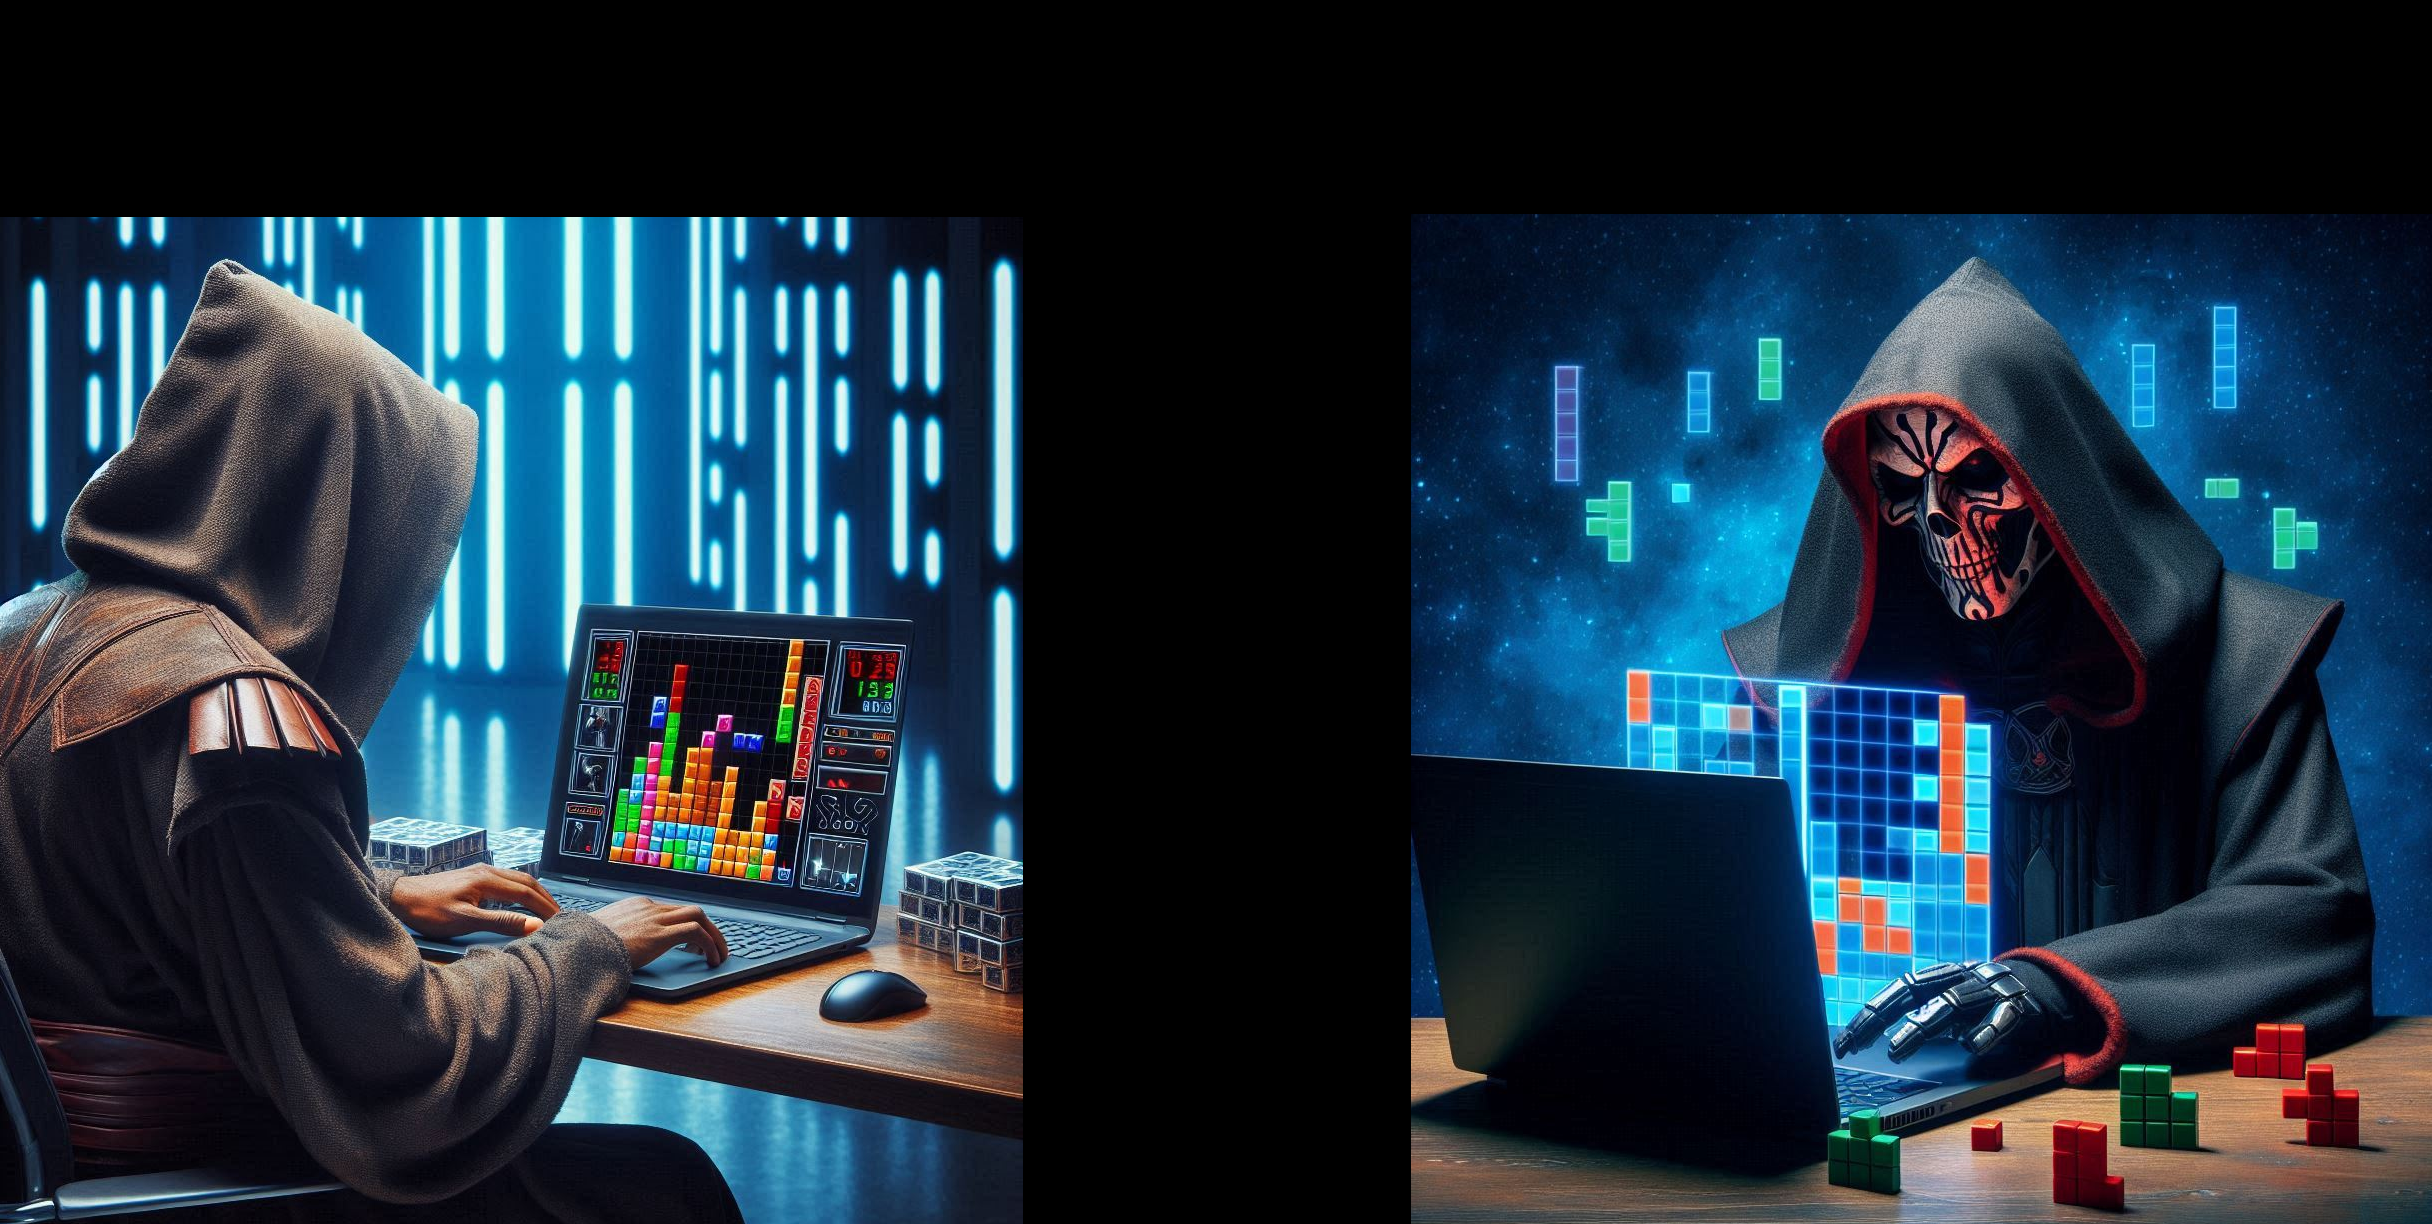
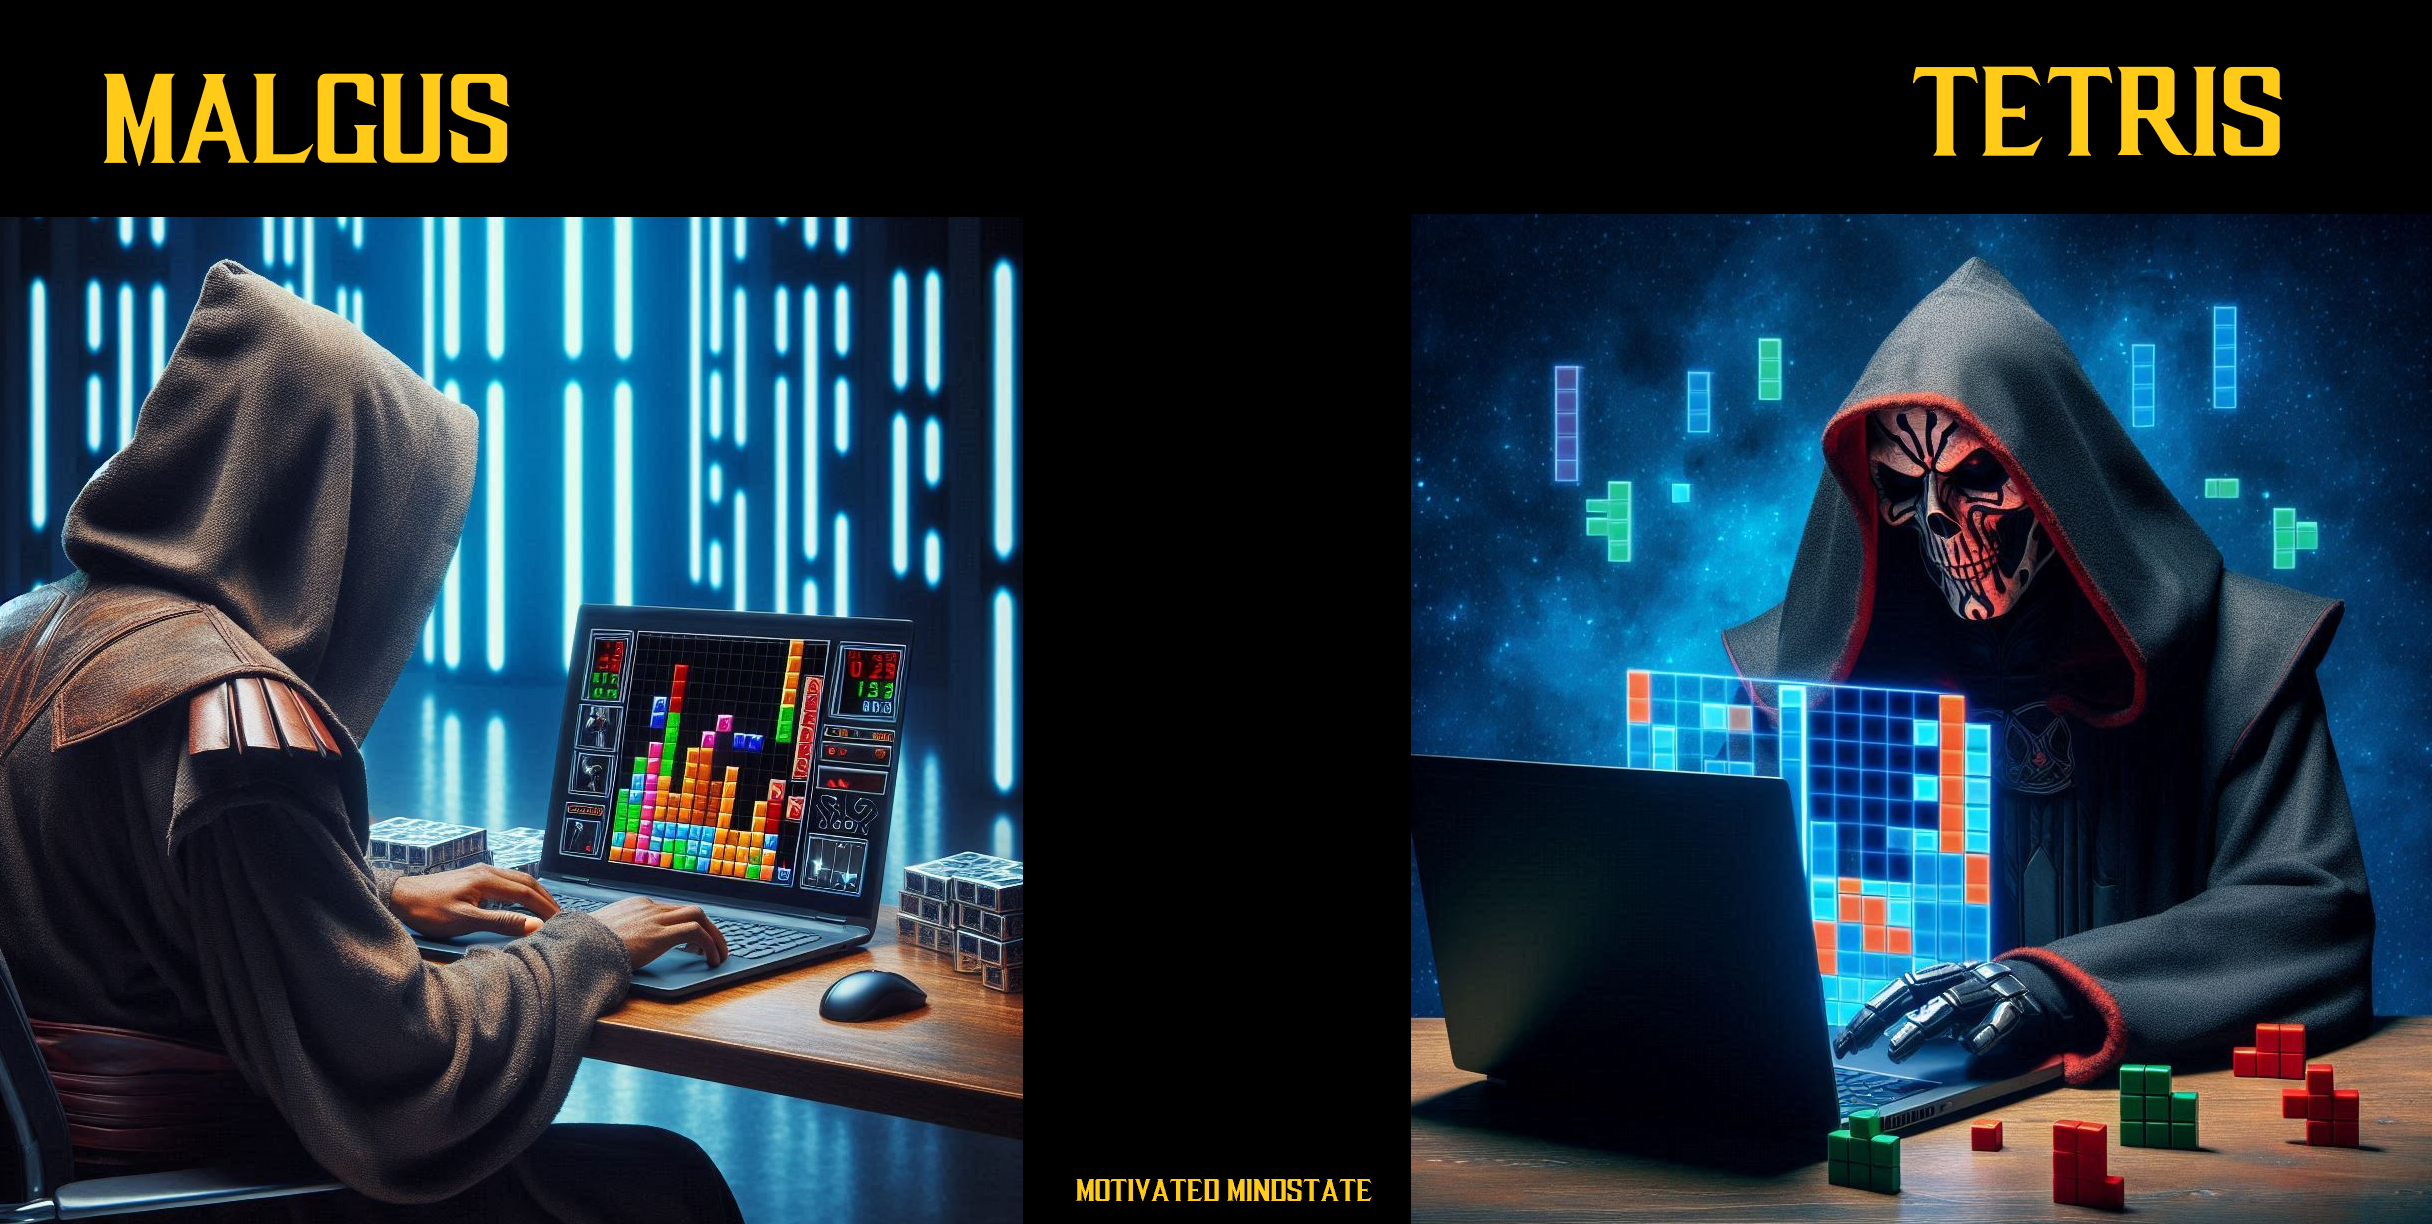
eigth commit

Changed region(s): [[0.0312, 0.0621, 0.2188, 0.1552], [0.7812, 0.031, 0.9375, 0.1242], [0.4375, 0.9624, 0.5625, 0.9935]]

diff --git a/readme.md b/readme.md
@@ -1,0 +1,15 @@
+# Malgus Tetris
+
+**Malgus Tetris** is a React-based Tetris game project. This repository contains two main components:
+
+## 1. Dockerized Application
+
+**Standalone Docker Container**: This component allows you to run the game as a self-contained Docker container. The Docker setup ensures that the game can be easily deployed and tested in any environment.
+
+## 2. Public GitHub Pages Site
+
+**Publicly Available Website**: The game is also hosted as a public website through GitHub Pages. This provides a live, accessible version of Malgus Tetris that can be viewed and played directly from a web browser.
+
+For detailed setup instructions and usage, please refer to the accompanying documentation files.
+
+![Malgus Tetris](src/images/malgustetris.jpg)
